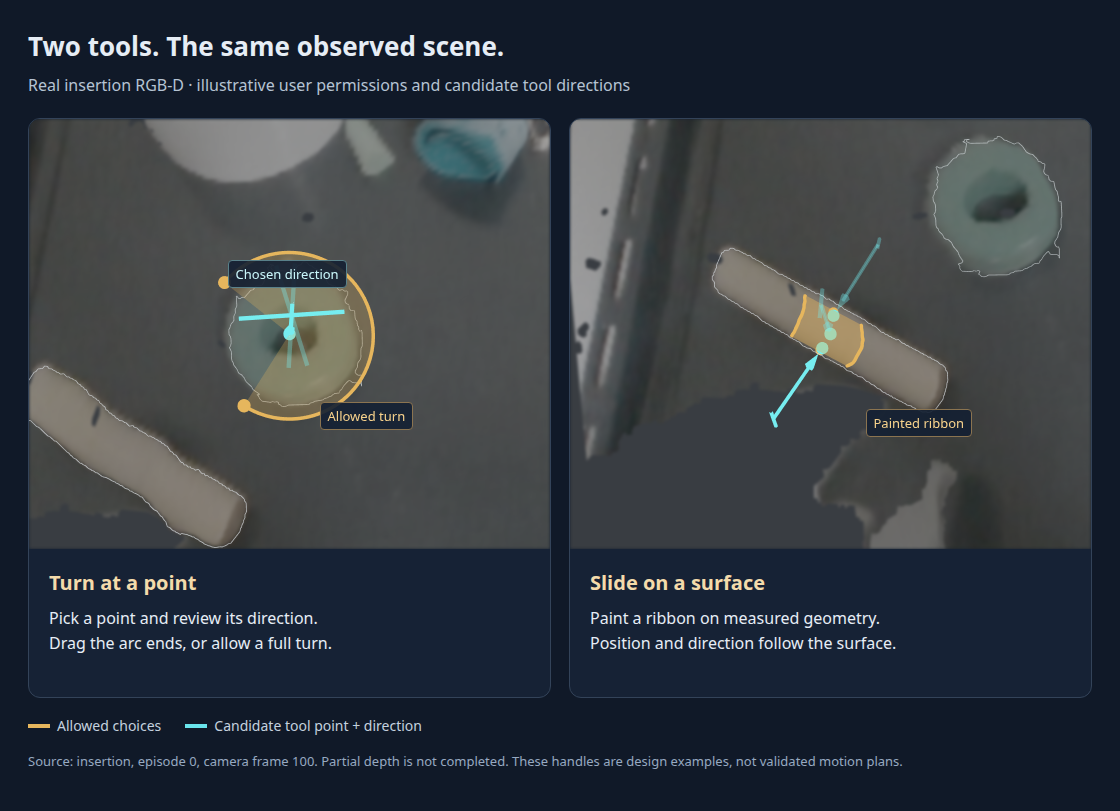
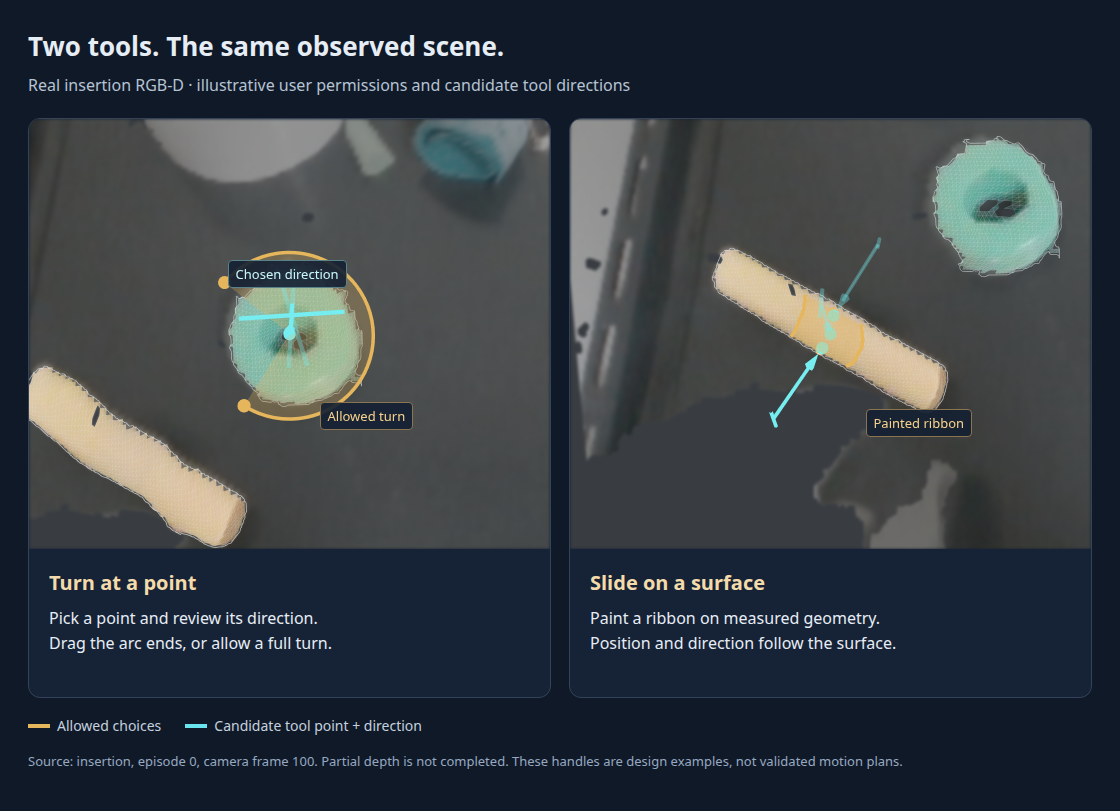
Clarify FLASH surface and prediction overlays in the shared scene design
The embedded Mermaid chart did not render for the reviewer, and the mockup
softened object geometry along with the background, making the planned mesh
view unclear. Replace the chart with a PNG plus editable SVG and render the
measured object patches separately with an optional wireframe.

Specify shared overlay meanings for measured surfaces, accepted estimates,
group support and gripper-backed predictions across Demo, Test and Replay.
Keep recorded evidence distinct from recomputation and expose source times,
attachment provenance and rejected estimates. These are design changes, not
runtime tracker or controller changes; the mockup uses recorded RGB-D and
illustrative annotations, without claiming new tracking results.

Verified the image renders and mesh toggle in headless Chromium, checked
playback placement and document links, and passed the applicable pre-commit
checks. Runtime and hardware behavior were not changed.

diff --git a/src/lerobot/policies/flash/docs/assets/surface_relations/scene_mockup.html b/src/lerobot/policies/flash/docs/assets/surface_relations/scene_mockup.html
@@ -5,14 +5,14 @@
 <title>FLASH scene editor — design mockup</title>
 <script type="importmap">{"imports":{"three":"./three.module.js"}}</script>
 <style>
-*{box-sizing:border-box}body{margin:0;background:#101928;color:#e6edf5;font:16px system-ui,sans-serif}button{font:inherit;color:inherit;background:#1c2a3f;border:1px solid #34465f;border-radius:7px;padding:8px 14px}button.active{background:#25445b;border-color:#5dd4e5;color:#bcf6ff}button{cursor:pointer}.app{width:1400px;padding:22px}.top{display:flex;align-items:center;gap:30px;height:55px}.brand{font-size:22px;font-weight:650;letter-spacing:.4px}.muted{color:#99aac0}.tabs{display:flex;gap:8px}.grow{flex:1}.concept{font-size:13px;color:#a2b2c5;letter-spacing:.7px}.workspace{display:grid;grid-template-columns:165px 1fr 250px;gap:14px;margin-top:18px}.rail,.inspector{padding:18px 14px;background:#162235;border-radius:10px}h2{font-size:17px;margin:0 0 17px}.object{padding:12px 10px;margin-bottom:8px;border-radius:6px;color:#c6d2df}.object.selected{background:#284153;color:#b8f6fa}.dot{display:inline-block;width:8px;height:8px;border:1px solid currentColor;border-radius:50%;margin-right:8px}.scene{position:relative;height:505px;background:#172333;overflow:hidden;border:1px solid #34465f;border-radius:10px}.scene canvas{position:absolute;inset:0;width:100%;height:100%}.base{filter:blur(1.35px) saturate(.4) brightness(.64)}.original .base{filter:none}.original .overlay,.original .marks{visibility:hidden}.scene-bar{position:absolute;left:14px;right:14px;top:14px;display:flex;gap:8px;align-items:center;z-index:3}.scene-bar button{background:#162235e8;font-size:14px}.scene-label{position:absolute;left:15px;bottom:14px;background:#101928de;border:1px solid #334459;border-radius:6px;padding:7px 10px;font-size:12px}.marks{position:absolute;inset:0;pointer-events:none}.mark{position:absolute;white-space:nowrap;background:#142033e8;border-radius:4px;padding:4px 7px;font-size:13px;color:#c9f6fa;border:1px solid #59818a}.mark.rule{color:#f7d28c;border-color:#8b7450}.detail{font-size:14px;color:#b7c6d8;line-height:1.6;margin:9px 0 22px}.field{font-size:12px;color:#99aac0;margin:18px 0 7px}.selected-tool{color:#f7d28c;border:1px solid #766240;padding:11px 10px;border-radius:7px;background:#302c27}.switch{font-size:13px;color:#c8d8e8;margin:13px 0}.bar{height:5px;background:#31465b;border-radius:5px;margin:10px 0 18px}.bar:before{content:"";display:block;width:65%;height:5px;border-radius:5px;background:#8ba2b9}.wide{width:100%;margin:5px 0}.primary{background:#2b586b;border-color:#53a2af}.timeline{grid-column:2/4;background:#162235;border-radius:10px;padding:16px 22px;margin-top:0}.playback{display:flex;gap:20px;align-items:center;font-size:14px}.track{height:40px;position:relative;margin:15px 4px 2px;border-top:3px solid #41566e}.region{position:absolute;top:-4px;height:8px;background:#e1b15c;left:13%;width:28%;border-radius:3px}.tick{position:absolute;top:-7px;width:12px;height:12px;transform:rotate(45deg);background:#b2c4d9}.tick.selected{background:#ffe0a7}.tick-label{position:absolute;top:16px;color:#bdcada;font-size:12px}.legend{display:flex;gap:22px;font-size:13px;color:#c4d1df;margin-top:18px}.swatch{display:inline-block;width:22px;height:4px;margin:0 7px 3px 0;vertical-align:middle}.amber{background:#e6b65d}.cyan{background:#69e4ec}.white{background:#c5d1df}.note{font-size:14px;color:#a6b5c8;margin:17px 0 0}.tools-page{width:1120px;padding:28px;display:none}.tool-head{font-size:26px;margin:0 0 10px}.tool-subtitle{color:#b5c3d3;font-size:16px;margin:0 0 22px}.tool-grid{display:grid;grid-template-columns:1fr 1fr;gap:18px}.tool-card{background:#162235;border:1px solid #334359;border-radius:12px;overflow:hidden}.tool-card .scene{height:430px;border:0;border-radius:0}.tool-description{padding:18px 20px;font-size:16px;line-height:1.55;min-height:148px}.tool-description strong{display:block;margin-bottom:8px;color:#f4dbab;font-size:20px}.below{display:flex;gap:24px;margin-top:18px;color:#c4d1df;font-size:14px}.annotation{color:#97a9c1;font-size:13px;margin-top:17px}body.tools .app{display:none}body.tools .tools-page{display:block}
+*{box-sizing:border-box}body{margin:0;background:#101928;color:#e6edf5;font:16px system-ui,sans-serif}button{font:inherit;color:inherit;background:#1c2a3f;border:1px solid #34465f;border-radius:7px;padding:8px 14px}button.active{background:#25445b;border-color:#5dd4e5;color:#bcf6ff}button{cursor:pointer}.app{width:1400px;padding:22px}.top{display:flex;align-items:center;gap:30px;height:55px}.brand{font-size:22px;font-weight:650;letter-spacing:.4px}.muted{color:#99aac0}.tabs{display:flex;gap:8px}.grow{flex:1}.concept{font-size:13px;color:#a2b2c5;letter-spacing:.7px}.workspace{display:grid;grid-template-columns:165px 1fr 250px;gap:14px;margin-top:18px}.rail,.inspector{padding:18px 14px;background:#162235;border-radius:10px}.inspector{max-height:542px;overflow:auto}.inspector .field{margin:7px 0 5px;font-size:11px}.inspector .detail{margin:4px 0 8px;font-size:13px;line-height:1.4}.inspector h2{margin-bottom:8px}.inspector .bar{margin:5px 0 10px}.inspector .wide{padding:6px 14px}.inspector .switch{margin:8px 0;font-size:12px}h2{font-size:17px;margin:0 0 17px}.object{padding:12px 10px;margin-bottom:8px;border-radius:6px;color:#c6d2df}.object.selected{background:#284153;color:#b8f6fa}.dot{display:inline-block;width:8px;height:8px;border:1px solid currentColor;border-radius:50%;margin-right:8px}.scene{position:relative;height:505px;background:#172333;overflow:hidden;border:1px solid #34465f;border-radius:10px}.scene canvas{position:absolute;inset:0;width:100%;height:100%}.base{filter:blur(1.35px) saturate(.4) brightness(.64)}.original .base{filter:none}.original .overlay,.original .marks{visibility:hidden}.scene-bar{position:absolute;left:14px;right:14px;top:14px;display:flex;gap:8px;align-items:center;z-index:3}.scene-bar button{background:#162235e8;font-size:14px}.scene-label{position:absolute;left:15px;bottom:14px;background:#101928de;border:1px solid #334459;border-radius:6px;padding:7px 10px;font-size:12px}.marks{position:absolute;inset:0;pointer-events:none}.mark{position:absolute;white-space:nowrap;background:#142033e8;border-radius:4px;padding:4px 7px;font-size:13px;color:#c9f6fa;border:1px solid #59818a}.mark.rule{color:#f7d28c;border-color:#8b7450}.detail{font-size:14px;color:#b7c6d8;line-height:1.6;margin:9px 0 22px}.field{font-size:12px;color:#99aac0;margin:18px 0 7px}.selected-tool{color:#f7d28c;border:1px solid #766240;padding:11px 10px;border-radius:7px;background:#302c27}.switch{font-size:13px;color:#c8d8e8;margin:13px 0}.bar{height:5px;background:#31465b;border-radius:5px;margin:10px 0 18px}.bar:before{content:"";display:block;width:65%;height:5px;border-radius:5px;background:#8ba2b9}.wide{width:100%;margin:5px 0}.primary{background:#2b586b;border-color:#53a2af}.timeline{grid-column:2/4;background:#162235;border-radius:10px;padding:16px 22px;margin-top:0}.playback{display:flex;gap:20px;align-items:center;font-size:14px}.track{height:40px;position:relative;margin:15px 4px 2px;border-top:3px solid #41566e}.region{position:absolute;top:-4px;height:8px;background:#e1b15c;left:13%;width:28%;border-radius:3px}.tick{position:absolute;top:-7px;width:12px;height:12px;transform:rotate(45deg);background:#b2c4d9}.tick.selected{background:#ffe0a7}.tick-label{position:absolute;top:16px;color:#bdcada;font-size:12px}.legend{display:flex;gap:22px;font-size:13px;color:#c4d1df;margin-top:18px}.swatch{display:inline-block;width:22px;height:4px;margin:0 7px 3px 0;vertical-align:middle}.amber{background:#e6b65d}.cyan{background:#69e4ec}.white{background:#c5d1df}.note{font-size:14px;color:#a6b5c8;margin:17px 0 0}.tools-page{width:1120px;padding:28px;display:none}.tool-head{font-size:26px;margin:0 0 10px}.tool-subtitle{color:#b5c3d3;font-size:16px;margin:0 0 22px}.tool-grid{display:grid;grid-template-columns:1fr 1fr;gap:18px}.tool-card{background:#162235;border:1px solid #334359;border-radius:12px;overflow:hidden}.tool-card .scene{height:430px;border:0;border-radius:0}.tool-description{padding:18px 20px;font-size:16px;line-height:1.55;min-height:148px}.tool-description strong{display:block;margin-bottom:8px;color:#f4dbab;font-size:20px}.below{display:flex;gap:24px;margin-top:18px;color:#c4d1df;font-size:14px}.annotation{color:#97a9c1;font-size:13px;margin-top:17px}body.tools .app{display:none}body.tools .tools-page{display:block}
 </style>
 <div class="app">
   <div class="top"><div class="brand">FLASH</div><span class="muted">Run</span><div class="tabs"><button class="active">Demo / Edit</button><button>Test</button><button>Replay</button></div><span class="grow"></span><span class="concept">DESIGN MOCKUP · RECORDED RGB-D</span></div>
   <div class="workspace">
     <aside class="rail"><h2>Insertion demo</h2><div class="muted" style="font-size:13px;margin-bottom:30px">Episode 0</div><h2>Objects</h2><div class="object selected"><span class="dot"></span>Dowel</div><div class="object"><span class="dot"></span>Ring</div><div class="object"><span class="dot"></span>Tool</div><div class="field" style="margin-top:40px">Recording</div><button class="wide">Browse</button></aside>
-    <div><div class="scene" id="main"><div class="scene-bar"><button onclick="window.restoreCamera()">Camera</button><button class="active">Orbit 3D</button><span class="grow"></span><button id="original">Original</button><button>Layers</button><button aria-label="Maximize">Expand</button></div><div class="scene-label">Frame 100 · 3.33 s · RGB + measured depth</div></div><div class="legend"><span><i class="swatch amber"></i>Allowed region</span><span><i class="swatch cyan"></i>Candidate</span><span><i class="swatch white"></i>Observed outline</span></div></div>
-    <aside class="inspector"><h2>Tool ↔ Dowel</h2><div class="field">Allowed adaptation</div><div class="selected-tool">Slide on surface</div><div class="detail">Paint the allowed patch.<br>Drag the tool to preview.</div><div class="field">Applies over timeline</div><button class="wide">K1 — K2</button><div class="field">Scene emphasis</div><div class="switch">Soften observed objects</div><div class="bar"></div><div class="switch">Keep contact outline</div><div class="field">Preview</div><div class="detail">Illustrative candidate<br>Motion not checked</div><button class="wide primary">Save rule</button></aside>
+    <div><div class="scene" id="main"><div class="scene-bar"><button onclick="window.restoreCamera()">Camera</button><button class="active">Orbit 3D</button><span class="grow"></span><button id="original">Original</button><button class="active" id="mesh">Surface mesh</button><button>Layers</button><button aria-label="Maximize">Expand</button></div><div class="scene-label">Frame 100 · 3.33 s · RGB + measured depth</div></div><div class="legend"><span><i class="swatch amber"></i>Allowed region</span><span><i class="swatch cyan"></i>Candidate</span><span><i class="swatch white"></i>Measured mesh</span></div></div>
+    <aside class="inspector"><h2>Tool ↔ Dowel</h2><div class="field">Allowed adaptation</div><div class="selected-tool">Slide on surface</div><div class="detail">Paint the allowed patch.<br>Drag the tool to preview.</div><div class="field">Applies over timeline</div><button class="wide">K1 — K2</button><div class="field">Scene emphasis</div><div class="switch">Soften observed objects</div><div class="bar"></div><div class="switch">Keep contact outline</div><div class="field">Tracking layers</div><div class="switch">☑ Measured mesh · ☑ Used estimate</div><div class="switch">Sources ▸ Visual / Group / Gripper</div><div class="field">Preview</div><div class="detail">Illustrative candidate<br>Motion not checked</div><button class="wide primary">Save rule</button></aside>
     <div class="timeline"><div class="playback"><button>Play</button><span>00:03.33 / 00:23.70</span><span class="grow"></span><button>Add keyframe</button><button>Regenerate</button></div><div class="track"><div class="region"></div><span class="tick selected" style="left:13%"></span><span class="tick" style="left:41%"></span><span class="tick" style="left:67%"></span><span class="tick" style="left:91%"></span><span class="tick-label" style="left:12%">K1</span><span class="tick-label" style="left:40%">K2</span><span class="tick-label" style="left:66%">K3</span><span class="tick-label" style="left:90%">K4</span></div></div>
   </div><p class="note">Same scene and timeline in Test and Replay. Editing adds handles; it never commands the robot.</p>
 </div>
@@ -90,7 +90,20 @@ function makeScene(id,kind){
  const renderer=new THREE.WebGLRenderer({antialias:true,preserveDrawingBuffer:true});renderer.setPixelRatio(2);renderer.setSize(w,h);renderer.setClearColor(0x516073);renderer.domElement.className='base';container.prepend(renderer.domElement);
  const overlay=new THREE.WebGLRenderer({antialias:true,alpha:true,preserveDrawingBuffer:true});overlay.setPixelRatio(2);overlay.setSize(w,h);overlay.setClearColor(0x000000,0);overlay.domElement.className='overlay';container.insertBefore(overlay.domElement,renderer.domElement.nextSibling);
  const scene=new THREE.Scene();scene.add(new THREE.Mesh(baseGeometry,new THREE.MeshBasicMaterial({vertexColors:true,side:THREE.DoubleSide})));
- const annotations=new THREE.Scene();const camera=new THREE.PerspectiveCamera(43,w/h,.01,3);
+ const annotations=new THREE.Scene();
+ // Object surfaces remain crisp independently of the contextual RGB-D layer.
+ // These are measured partial surfaces, not completed models or tracker outputs.
+ const surfaces=new THREE.Group();
+ for(const name of ['dowel','ring']){
+  const g=new THREE.BufferGeometry();
+  g.setAttribute('position',baseGeometry.getAttribute('position'));
+  g.setAttribute('color',baseGeometry.getAttribute('color'));
+  g.setIndex(data[name+'_indices']);
+  surfaces.add(new THREE.Mesh(g,new THREE.MeshBasicMaterial({vertexColors:true,side:THREE.DoubleSide,polygonOffset:true,polygonOffsetFactor:1,polygonOffsetUnits:1})));
+  surfaces.add(new THREE.LineSegments(new THREE.WireframeGeometry(g),new THREE.LineBasicMaterial({color:white,transparent:true,opacity:.24})));
+ }
+ annotations.add(surfaces);
+ const camera=new THREE.PerspectiveCamera(43,w/h,.01,3);
  let center=kind==='turn'?vector(data.pivot):vector(data.curve[7]);
  if(kind==='main'){camera.position.set(.045,.025,.018);center=new THREE.Vector3(-.03,.005,-.43);}else{camera.position.copy(center).add(new THREE.Vector3(.035,.045,.20));}
  camera.lookAt(center);
@@ -100,16 +113,18 @@ function makeScene(id,kind){
  const labels=document.createElement('div');labels.className='marks';container.appendChild(labels);
  const label=(text,p,dx,dy,rule=false)=>{const el=document.createElement('div');el.className='mark'+(rule?' rule':'');el.textContent=text;labels.appendChild(el);return {el,p,dx,dy};};
  let marks=[];
- if(kind==='main')marks=[label('Allowed surface patch',vector(data.curve[7]),-170,45,true),label('Candidate tool',vector(data.curve[13]).addScaledVector(vector(data.normals[13]),.03),45,-50)];
+ if(kind==='main')marks=[label('Allowed surface patch',vector(data.curve[7]),-170,55,true),label('Candidate tool',vector(data.curve[13]).addScaledVector(vector(data.normals[13]),.03),45,-50),label('Measured surface mesh',vector(data.pivot),-35,-56)];
  if(kind==='turn')marks=[label('Allowed turn',vector(data.pivot),30,68,true),label('Chosen direction',vector(data.pivot).addScaledVector(vector(data.normal),.055),-65,-48)];
  if(kind==='slide')marks=[label('Painted ribbon',vector(data.curve[7]),35,75,true)];
  const draw=()=>{renderer.render(scene,camera);overlay.render(annotations,camera);for(const m of marks){const q=m.p.clone().project(camera);m.el.style.left=Math.max(8,Math.min(w-m.el.offsetWidth-8,(q.x+1)/2*w+m.dx))+'px';m.el.style.top=Math.max(8,Math.min(h-32,(-q.y+1)/2*h+m.dy))+'px';}};
  controls.addEventListener('change',draw);draw();
- return {container,draw,camera,controls};
+ return {container,draw,camera,controls,surfaces};
 }
 if(mode==='tools'){makeScene('turn','turn');makeScene('slide','slide');}else{
  const view=makeScene('main','main');
  window.restoreCamera=()=>{view.camera.position.set(0,0,0);view.controls.target.set(0,0,-.43);view.controls.update();view.draw();};
+ const mesh=document.getElementById('mesh');
+ mesh.onclick=()=>{view.surfaces.visible=!view.surfaces.visible;mesh.classList.toggle('active',view.surfaces.visible);view.draw();};
  const original=document.getElementById('original');
  original.onpointerdown=()=>view.container.classList.add('original');
  for(const event of ['pointerup','pointerleave'])original.addEventListener(event,()=>view.container.classList.remove('original'));

diff --git a/src/lerobot/policies/flash/docs/assets/surface_relations/prepare_mockups.py b/src/lerobot/policies/flash/docs/assets/surface_relations/prepare_mockups.py
@@ -88,6 +88,8 @@ def prepare(recording: Path, mask_path: Path, output: Path) -> None:
         "positions": pos.round(6).ravel().tolist(),
         "colors": colors.round(4).ravel().tolist(),
         "indices": triangles.ravel().tolist(),
+        "dowel_indices": triangles[mask[::2, ::2].ravel()[triangles].all(1)].ravel().tolist(),
+        "ring_indices": triangles[ring[::2, ::2].ravel()[triangles].all(1)].ravel().tolist(),
         "dowel": contour(mask),
         "ring": contour(ring),
         "curve": curve,

diff --git a/src/lerobot/policies/flash/docs/surface_relations.md b/src/lerobot/policies/flash/docs/surface_relations.md
@@ -15,20 +15,9 @@ Review the extracted demonstration and test its adaptations in the same 3D scene
 
 ## Components
 
-```mermaid
-flowchart TD
-    RGBD[Recorded or test RGB-D] --> Tracking[Shared tracking: surfaces and evidence]
-    Tracking --> Extraction[Demo extraction]
-    Editing[Timeline and relationship annotations] --> Extraction
-    Extraction --> Demo[Prepared demo]
-    Tracking --> Matching[Test: match the current keyframes]
-    Demo --> Matching
-    Matching --> Planning[Async planning and action queue]
-    Planning --> Motor[30 Hz LeRobot control]
-    Extraction -.-> View[Shared 3D view]
-    Matching -.-> View
-    Planning -.-> View
-```
+![Shared perception, demo extraction, testing and replay](assets/surface_relations/components.png)
+
+[Editable diagram](assets/surface_relations/components.svg).
 
 <a id="demo-extraction-from-the-timeline"></a>
 
@@ -51,13 +40,37 @@ Predictions and unlinked views remain explicit. A complete mesh is unnecessary.
 
 _Actual insertion RGB-D, frame 100. Proposed controls and hypothetical handles; not a policy result._
 
-Reconstruct the objects, robot and surroundings. Orbit/pan/zoom follows the
+**Show the tracked object surface as a shaded 3D mesh, with optional wireframe.**
+Keep it sharp above the softened RGB-D surroundings. Separate the current measured
+patch from the accumulated surface at its estimated pose; unseen areas remain open.
+Orbit/pan/zoom follows the
 URDF viewer; **Camera** restores the capture viewpoint. Keep playback below
 the scene. Collapse the recording/object lists and contextual inspector for space.
 
 - **Demo/Edit:** edit keyframes and rules directly on the scene and timeline.
 - **Test:** show matched surfaces, active rules, progress and available plans.
 - **Replay:** exactly Test with recorded snapshots. Future “Use as demo” preserves the recording.
+
+### Tracking layers — same meaning in all three modes
+
+| Layer                  | What appears in the scene                                                                                                                                                                       |
+| ---------------------- | ----------------------------------------------------------------------------------------------------------------------------------------------------------------------------------------------- |
+| **Measured surface**   | Solid, textured mesh of this frame's valid masked depth.                                                                                                                                        |
+| **Used estimate**      | Accumulated surface and a small direction gizmo at the accepted pose. Badge: **Visual**, **Group predicted**, **Gripper predicted**, or **Lost**. Predictions use dashed outlines.              |
+| **Group tracker**      | Tracked supporting points, group membership outlines and a motion arrow. Selecting a predicted object reveals the supporting group and its link to that object.                                 |
+| **Gripper prediction** | Tool point/direction, attachment link and dashed object surface carried by the measured gripper pose. Show when the attachment was established or updated; contact alone does not establish it. |
+
+Default to measured surface + used estimate. Expand **Sources** to compare vision,
+group and gripper proposals, including rejected ones and the reason. Hover isolates
+a source. Show observation time, age and available confidence evidence; do not invent
+a confidence percentage. Reliable vision corrects supported predictions; **Lost**
+fades the last estimate and labels its time.
+
+**Demo:** compute these layers during extraction and review the selected version.
+Robot-based predictions require recorded robot state and calibration.
+**Test:** show the snapshots used by the engine, with image/estimate times when they
+differ. **Replay:** display those recorded snapshots. Missing historical layers say
+**Not recorded**; a fresh extraction is separately labelled **Recomputed**.
 
 ## Editing a relationship
 
@@ -77,11 +90,11 @@ Both edit relationships between any participants; sliding does not imply graspin
 
 ## Make the proposed change stand out
 
-- **Scene:** soften/desaturate observed objects; preserve outlines, contact patches and obstacles. Adjust **Scene emphasis**; hold **Original** to compare. Missing geometry fades to a neutral background.
+- **Scene:** soften/desaturate the background; keep tracked meshes and contact patches sharp. Adjust **Scene emphasis**; hold **Original** to compare. Missing geometry fades to a neutral background.
 - **Allowed choices:** a sharp translucent amber arc or ribbon with draggable endpoints. This is permission, not a path.
 - **Candidate:** sharp cyan object surface or tool point + approach arrow; a crossbar shows closing direction. Alternatives are faint ghosts.
 - **Motion:** show a labelled path only when computed; mark unchecked/occluded portions. Permission, prediction and measured motion stay distinct. Display effects never change checking geometry.
 
 **Layers** stays clear of **Expand** and playback. Hover to highlight, click to
-pin. Visibility affects neither control nor recording. Geometry and overlays
-share source timestamps; replay reproduces the same snapshot.
+pin. Visibility affects neither control nor recording. Every layer carries its source
+timestamp; replay preserves the snapshot and its delays.
